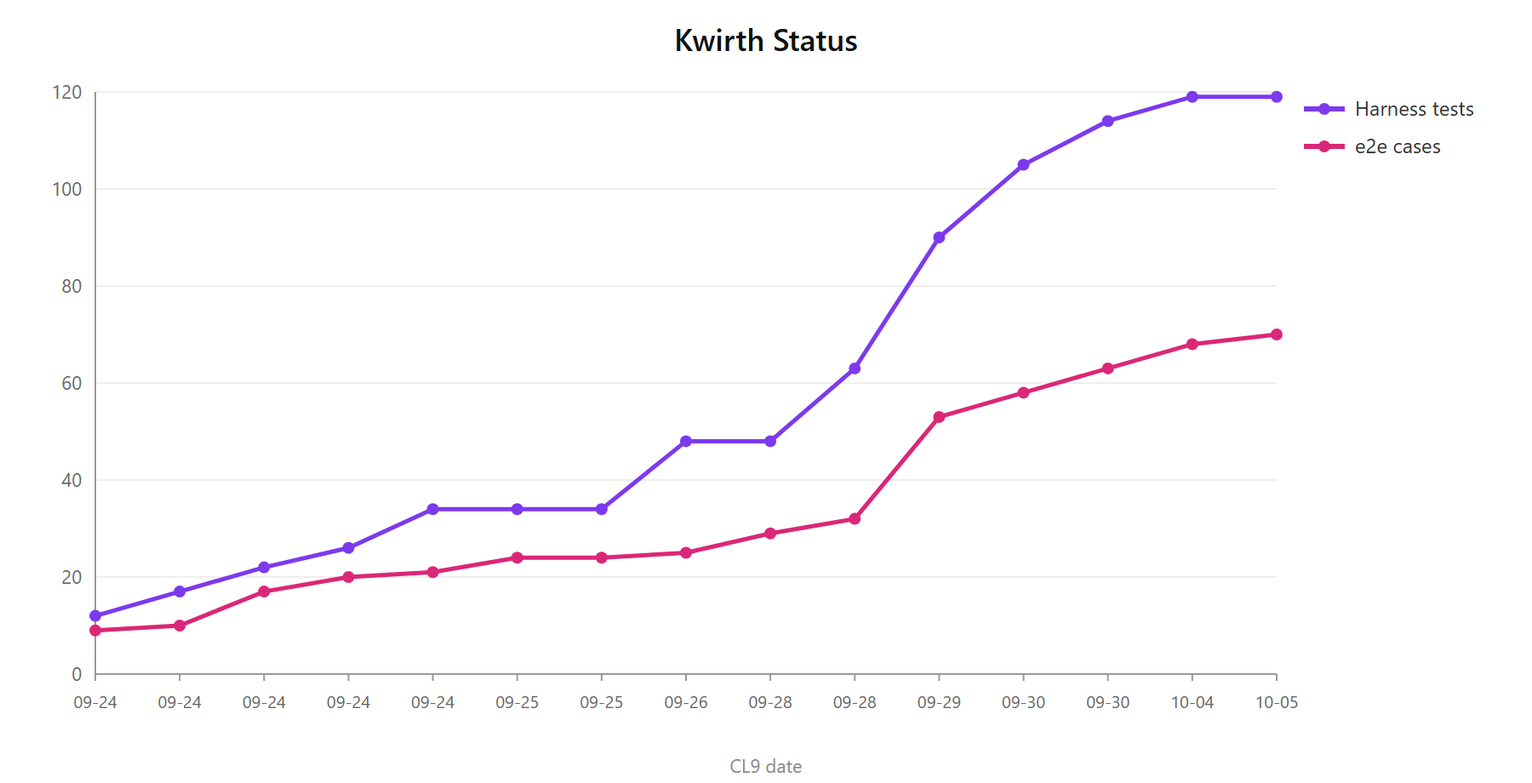
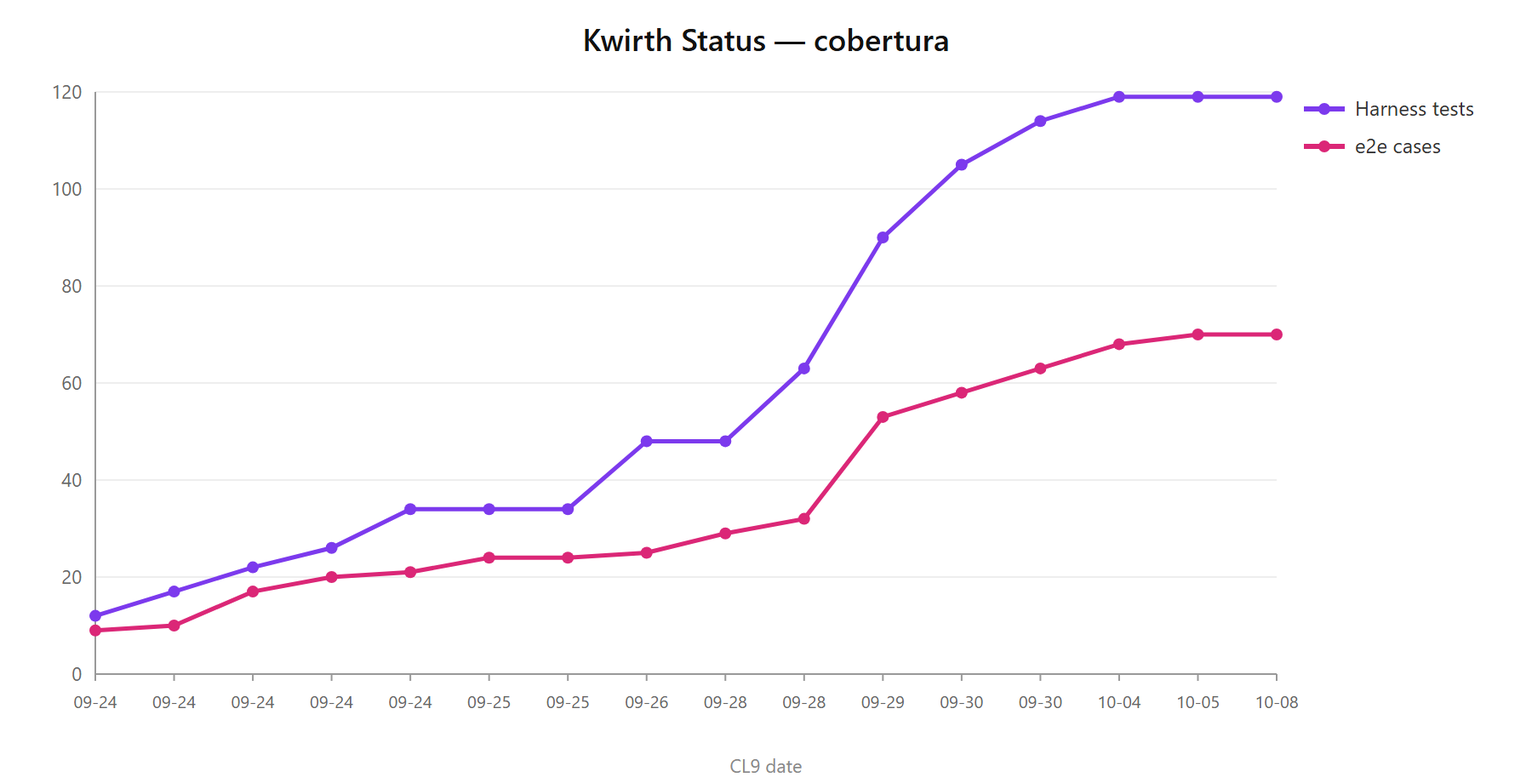
feat(core): the resource selector only lets you pick channels that can live on this cluster
`sources` has been in the channel contract since forever, every one of the 24
channels declares it, and nobody read it: its only use was being printed in
ManageClusters. So a Kwirth outside Kubernetes offered every installed channel,
including the ones that can only paint an empty screen there -- and offered
Excubitor by luck rather than by decision.

The selector now crosses the channel's `sources` with the clusterType of the
SELECTED cluster. Add a Kubernetes cluster to the list, select it, and
everything is offered again: it is that cluster that has something to serve, not
the one hosting Kwirth.

Disabled, never hidden. A channel the user installed and cannot find is a
mystery; one greyed out with its reason beside it is an answer. The reason names
what is missing ("needs kubernetes") rather than saying "incompatible", which
tells nobody anything. It is written inline and not in a tooltip because MUI
kills pointer events on a disabled MenuItem, so a tooltip would never fire --
and a reason you have to hover for is half a reason.

Permissive when a channel declares nothing: the field went years without a
reader, and breaking third-party extensions over an internal tidy-up does not
pay.

Status declares [kubernetes, none] and goes out as 0.7.2. What it shows is
Kwirth itself -- providers, plugins, extensions, HTTP routes, the core log --
none of which comes from the Kubernetes API, so on an ECS deployment it is one
[…]

diff --git a/front/src/components/home/ResourceSelector.tsx b/front/src/components/home/ResourceSelector.tsx
@@ -48,6 +48,26 @@ const isAutonomous = (channel: BackChannelData | undefined): boolean =>
     stop it either: it only looks at whether there are resources selected, not whether the channel
     admits them.
 */
+/*
+    Can this channel live on THIS cluster? A different question from the one above: `cluster`/`resourced`
+    say HOW a channel is invoked (cluster-wide, per resource, not at all), while `sources` says WHAT it
+    needs behind it. They are orthogonal, and Excubitor is the case that proves it -- invoked cluster-wide
+    and needing no Kubernetes at all, because its data comes from the cloud connectors.
+
+    Until now nobody crossed the two, so a Kwirth outside Kubernetes offered channels that could only paint
+    an empty screen, and offered Excubitor by luck rather than by decision.
+
+    Permissive when the channel declares nothing: the field went years without a reader, and breaking
+    third-party extensions over an internal tidy-up does not pay.
+*/
+const channelFitsCluster = (channel: BackChannelData, clusterType?: string): boolean =>
+    !channel.sources || channel.sources.length === 0 || !clusterType || channel.sources.includes(clusterType)
+
+/** What the channel is missing here, for the item that cannot be picked. Names what it NEEDS, not that it
+ *  is "incompatible": the second says nothing the user can act on. */
+const channelNeeds = (channel: BackChannelData): string =>
+    `needs ${channel.sources.filter(s => s !== EClusterType.NONE).join(' or ')}`
+
 const channelFitsView = (channel: BackChannelData, view: EInstanceConfigView | ''): boolean => {
     switch (view) {
         case '':
@@ -116,6 +136,9 @@ const ResourceSelector: React.FC<IResourceSelectorProps> = (props:IResourceSelec
     // A Kwirth outside Kubernetes has no namespaces, controllers, pods or containers. Offering those views
     // only leads to four dropdowns that will never have anything in them.
     const clusterHasResources = cluster?.kwirthData?.clusterType !== EClusterType.NONE
+    // The SELECTED cluster decides, not the installation: add a Kubernetes cluster to the list, select it,
+    // and every channel is offered again -- it is that cluster that has something to serve.
+    const selectedClusterType = cluster?.kwirthData?.clusterType
 
     const loadAllNamespaces = async (cluster:Cluster) => {
         /*
@@ -535,11 +558,20 @@ const ResourceSelector: React.FC<IResourceSelectorProps> = (props:IResourceSelec
                     { props.backChannels.filter(c => !props.enabledChannels?.length || props.enabledChannels.includes(c.id)).map(c => {
                         const cls = props.frontChannels?.get(c.id)
                         const icon = cls ? React.cloneElement(getChannelIconSafe(cls), { sx: { fontSize: 18, mr: 0.5 } }) : null
+                        /*
+                            It is DISABLED, never hidden. A channel the user installed and cannot find is a
+                            mystery; one that is greyed out with its reason beside it is an answer.
+                            The reason is written inline rather than in a tooltip because MUI disables
+                            pointer events on a disabled MenuItem, so a tooltip would never fire -- and a
+                            reason you have to hover for is half a reason anyway.
+                        */
+                        const unfitCluster = !channelFitsCluster(c, selectedClusterType)
                         return (
-                            <MenuItem key={c.id} value={c.id} disabled={!channelFitsView(c, view)}>
+                            <MenuItem key={c.id} value={c.id} disabled={!channelFitsView(c, view) || unfitCluster}>
                                 <Stack direction='row' alignItems='center'>
                                     {icon}
                                     <span>{c.id}</span>
+                                    {unfitCluster && <Typography variant='caption' color='text.disabled' sx={{ ml: 1 }}>{channelNeeds(c)}</Typography>}
                                     {c.mode === EChannelMode.REMOTE && <RemoteBadge operative={!!resolveRemoteChannelHost(c.id, cluster.clusterInfo?.id ?? '', props.clusters)} />}
                                 </Stack>
                             </MenuItem>

diff --git a/plugins/status/src/back/index.ts b/plugins/status/src/back/index.ts
@@ -216,7 +216,11 @@ class StatusChannel implements IChannel {
         modifiable: false,
         reconnectable: true,
         metrics: false,
-        sources: [EClusterType.KUBERNETES],
+        // 🔴 También SIN cluster, y aquí es casi la razón de existir del canal: lo que Status enseña es el
+        // propio Kwirth —providers, plugins, extensiones, rutas HTTP, el log del core—, nada de lo cual
+        // sale de la API de Kubernetes. En un Kwirth sobre ECS es de los pocos sitios donde mirar qué pasa,
+        // así que deshabilitarlo ahí sería exactamente al revés de lo que hace falta.
+        sources: [EClusterType.KUBERNETES, EClusterType.NONE],
         endpoints: [],
         websocket: false,
         cluster: true,          // lo que se mira es el Kwirth entero, no un pod

diff --git a/plans/channel-sources/PRD.md b/plans/channel-sources/PRD.md
@@ -1,0 +1,160 @@
+# Channel sources — qué canales pueden vivir aquí
+
+> **Estado:** borrador, pendiente de validar. Sin código.
+> **Origen:** la sesión de QA del 2026-10-08 sobre el Kwirth desplegado en **AWS ECS**.
+
+## 1. El problema, con el caso que lo destapó
+
+En un Kwirth **sin Kubernetes** el selector de recursos ofrece **todos** los canales instalados, incluidos
+los que no pueden funcionar ahí. No hay nada que lo impida: nadie cruza lo que un canal necesita con lo que
+la instalación tiene.
+
+Hoy se ve en el ECS real: el desplegable ofrece `magnify`, `metrics` o `trivy`, que sin API de Kubernetes no
+tienen de dónde sacar un solo dato. El usuario los elige, arranca el canal y se encuentra una pantalla
+vacía — o un error, según el canal. **La ausencia de capacidad no se distingue de la ausencia de datos**,
+que es el mismo patrón que llevamos todo M14 persiguiendo en Excubitor.
+
+Y al revés también falla, aunque hoy nos beneficie: **Excubitor aparece por casualidad**, no porque alguien
+haya decidido que puede. Si mañana se activara un filtro ingenuo, desaparecería.
+
+## 2. Lo que ya existe y por qué no basta
+
+Hay **dos** mecanismos en el contrato, y ninguno responde la pregunta.
+
+**`cluster` / `resourced`** dicen **cómo se invoca** un canal: cluster-wide, por recurso, o de ninguna
+manera. De ahí sale `isAutonomous()` en el `ResourceSelector`:
+
+```ts
+const isAutonomous = (channel) => !channel.cluster && !channel.resourced
+```
+
+*"No necesita nada del cluster"*. Es el mecanismo actual para "funciona sin Kubernetes", y **Excubitor no
+cumple**: declara `cluster: true` porque se invoca cluster-wide. Sus datos vienen de los conectores cloud y
+de los escaneos de registro, no de la API de Kubernetes.
+
+**`sources: string[]`** dice **de dónde salen los recursos** con los que el canal trabaja. Existe en
+`BackChannelData` desde siempre, los 24 canales lo declaran… y **no lo lee nadie**: su único uso es pintarlo
+en `ManageClusters`. Además, los 24 declaran `[kubernetes]`, y varios mienten — `galaga`, `spectrum`,
+`sugarless` o `echo` no tocan un cluster en su vida.
+
+El hueco es que **son dos ejes ortogonales metidos en uno**:
+
+| Pregunta | Quién la responde |
+|---|---|
+| **Cómo** se invoca: cluster-wide, por recurso, ninguna | `cluster` / `resourced` |
+| **Qué** necesita detrás: Kubernetes, nada, otra cosa | `sources` — existe, pero está muerto |
+
+Excubitor es justo la combinación que hoy no se puede expresar: **se invoca cluster-wide y no necesita
+Kubernetes**.
+
+## 3. Decisiones
+
+### D1 · `sources` es un **array**, no un booleano ✅ *(validado por el usuario, 2026-10-08)*
+
+Se descartó `requiresCluster: boolean`, más directo de leer, porque cierra la puerta al tercer origen. Con
+el array, el día que exista otro tipo de cluster se añade un valor y ya:
+
+```ts
+sources: [EClusterType.KUBERNETES, EClusterType.NONE, EClusterType.OTRO]
+```
+
+**Semántica**: el conjunto de orígenes de recursos con los que el canal **puede vivir**. `NONE` en la lista
+significa *"también sé funcionar sin ninguno"*, consistente con lo que `EClusterType.NONE` ya significa en
+`Channel.ts` — *"de ningún sitio"* como respuesta honesta, no como fallo.
+
+Se asume que leer `sources: [kubernetes, none]` chirría un poco, porque suena a *"orígenes: ninguno"*. Se
+acepta a cambio de la extensibilidad.
+
+### D2 · **ECS NO entra en `EClusterType`** ✅ *(validado por el usuario, 2026-10-08)*
+
+La propuesta inicial era declarar Excubitor como soportando *"2 tipos de cluster: KUBERNETES y ECS"*. La
+recomendación es **no hacerlo**, por dos motivos:
+
+1. **Contradice el diseño ya escrito** en `Channel.ts`, que retiró DOCKER con este argumento literal:
+   *"Docker sigue siendo un sitio donde **correr** —eso lo dice `EExecutionEnvironment`— pero no una fuente
+   de recursos"*. ECS es exactamente el mismo caso.
+2. **Rompe el caso real**: Excubitor inventaría tareas de ECS **también desde un k3d**, porque esa capacidad
+   se la da el conector cloud, no el sitio donde vive. Si ECS fuese un tipo de cluster, un Kwirth en
+   Kubernetes mirando una cuenta AWS tendría que declararse de dos tipos a la vez, y el tipo dejaría de
+   describir la instalación.
+
+🔴 **Si se decide lo contrario**, hay que repasar las guardas del *sin cluster* entregadas hoy
+(`cc6821ad`, `8633383e`), que preguntan `clusterType === NONE` y pasarían a `!== KUBERNETES`.
+
+### D3 · Alcance de las declaraciones ✅ *(validado por el usuario, 2026-10-08: opción A)*
+
+Son **24 canales** los que declaran `sources`, y cada plugin de pago tocado arrastra su bump, publish,
+manifest y tag. Ahí está el coste, no en el código.
+
+- **Opción A (recomendada)**: declarar solo **`excubitor` y `status`**, que son los que corren en el ECS, y
+  el resto cuando se toque cada uno por otro motivo. El filtro funciona igual: lo que no declare `NONE`
+  simplemente no sale en un Kwirth sin cluster, **que es la verdad** mientras nadie diga lo contrario.
+- **Opción B**: revisar los 24 de una vez. Más coherente de golpe, pero son ~20 bbpm encadenados.
+
+### D4 · Un canal incompatible **se muestra DESHABILITADO**, no se oculta ✅ *(validado por el usuario, 2026-10-08, vía UC1)*
+
+Se descartó ocultarlo. Un canal que el usuario ha instalado y no aparece es un misterio; deshabilitado con
+su motivo es una respuesta. Es el mismo criterio que venimos aplicando en todo M14: **no borrar
+información, explicarla**.
+
+El motivo va en un tooltip, y tiene que nombrar **lo que falta**, no lo que sobra: *"needs a Kubernetes
+cluster"*, no *"not compatible"*.
+
+## 3b. Casos de uso
+
+### UC1 · Kwirth en ECS con tres canales instalados
+
+Un Kwirth en ECS (`clusterType: none`) con **Excubitor**, **Status** y **Logs** instalados.
+
+Lo que declara cada uno:
+
+| canal | `sources` | en el selector |
+|---|---|---|
+| `excubitor` | `[kubernetes, none]` | **seleccionable** |
+| `status` | `[kubernetes, none]` | **seleccionable** |
+| `log` | `[kubernetes]` | **deshabilitado** |
+
+En el selector se ven **los tres**. **Excubitor** y **Status** son seleccionables: ninguno necesita la API
+de Kubernetes. **Logs** aparece **deshabilitado**, porque solo sabe leer logs de pods y ahí no hay pods —
+con su tooltip diciendo exactamente eso.
+
+El filtro no adivina nada: sale de cruzar el `sources` declarado por el canal con el `clusterType` del
+cluster seleccionado. `log` se deshabilita porque **declara `[kubernetes]` y nada más**, no porque alguien
+haya puesto su nombre en una lista.
+
+> Lo que este caso fija, y conviene no perder de vista: Logs no está deshabilitado por *"ser de Kubernetes"*
+> en abstracto, sino porque **su fuente de datos no existe aquí**. Esa es la pregunta que `sources`
+> responde, y por eso la respuesta correcta es deshabilitar y explicar, no esconder.
+
+### D5 · Se filtra por el **cluster seleccionado**, no por la instalación ✅
+
+Igual que las guardas de hoy. Un k3d añadido a la lista de clusters sigue ofreciendo todo cuando se
+selecciona: es **ese** cluster el que tiene algo que enseñar, no el que hospeda a Kwirth.
+
+### D6 · Un canal que no declare nada: **permisivo** ✅ *(validado por el usuario, 2026-10-08)*
+
+¿`sources` vacío o ausente = "vale para todo" o = "no vale para nada"? Permisivo evita romper extensiones de
+terceros; estricto obliga a declarar. **Recomendación: permisivo**, porque el contrato lleva años sin que
+nadie lo lea y romper instalaciones ajenas por una limpieza interna no compensa.
+
+## 4. Fuera de alcance
+
+- No se toca `cluster` / `resourced` ni `isAutonomous()`: siguen decidiendo **cómo** se invoca un canal, y
+  el filtro por vista que ya existe (`channelFitsView`) se queda como está.
+- No se añaden tipos de cluster nuevos (ver D2).
+- No se filtra nada en el **back**: un canal incompatible que alguien arranque a mano por API sigue
+  arrancando. Esto es ergonomía del selector, no seguridad.
+
+## 5. Riesgo principal
+
+🔴 **El orden no es negociable: primero las declaraciones, después el filtro.** Los 24 canales declaran hoy
+`[kubernetes]`. Si el filtro entra antes, un Kwirth sin cluster se queda **sin un solo canal**, empezando por
+Excubitor, que es el que se está usando ahí.
+
+## 6. Cómo se sabrá que está bien
+
+1. **UC1 reproducido**: en el Kwirth de ECS, los tres canales se ven; Excubitor y Status seleccionables,
+   Logs deshabilitado con su tooltip.
+2. Añadir un cluster Kubernetes a la lista y seleccionarlo **rehabilita todos** los canales, sin recargar.
+3. Un canal de terceros que no declare `sources` sigue seleccionable (D6).
+4. Ningún canal **desaparece** de la lista por este cambio: los que no encajan se deshabilitan.

diff --git a/plans/channel-sources/PLAN.md b/plans/channel-sources/PLAN.md
@@ -1,0 +1,78 @@
+# Channel sources — PLAN
+
+> **Estado (2026-10-08):** **VIVO, con los tres streams entregados.** ✅ **S1** (core: el selector cruza
+> `sources` con el tipo del cluster seleccionado), ✅ **S2** (`excubitor` y `status` declaran
+> `[kubernetes, none]`) y ✅ **S3** (publicados `excubitor@0.2.17` al Nexus privado y `status@0.7.2` a npm
+> público, con sus manifests).
+>
+> 🔴 **NO cerrado**: falta el **QA manual de UC1** contra el Kwirth de ECS, que exige buildear el core y
+> reinstalar los dos plugins. Y queda el backlog de declaraciones de los otros 22 canales, que es
+> deliberado (D3).
+>
+> PRD en [`PRD.md`](./PRD.md), con las seis decisiones validadas y el caso **UC1**.
+> Documento **vivo y append-only**: el estado de cada stream se actualiza, nunca se borra.
+
+## Por qué, en una línea
+
+En un Kwirth sin Kubernetes el selector ofrecía **todos** los canales, incluidos los que allí solo pueden
+pintar una pantalla vacía — y ofrecía Excubitor **por casualidad**, no por decisión. `sources` existía en el
+contrato desde siempre y **no lo leía nadie**.
+
+## Streams
+
+| # | Qué | Estado |
+|---|---|---|
+| **S1** | **Core**: el `ResourceSelector` cruza `channel.sources` con el `clusterType` del cluster **seleccionado**. El que no encaja se **deshabilita** con el motivo al lado. Permisivo si el canal no declara nada | ✅ **HECHO** (2026-10-08) |
+| **S2** | **Declaraciones**: `excubitor` y `status` pasan a `[kubernetes, none]` | ✅ **HECHO** (2026-10-08) |
+| **S3** | **bbpm** de los dos plugins: bump, build, publish, manifest y tag. Excubitor al **Nexus privado**; Status a **npm público** | ✅ **HECHO** (2026-10-08): `excubitor@0.2.17` + `docs/excubitor@0.2.17`, `status@0.7.2` (con README en el tarball) |
+
+### S1 · Lo que entró en el core
+
+Dos funciones puras en [`ResourceSelector.tsx`](../../front/src/components/home/ResourceSelector.tsx), junto
+a las que ya filtraban por vista:
+
+- `channelFitsCluster(channel, clusterType)` — permisivo si `sources` está vacío o ausente (D6).
+- `channelNeeds(channel)` — el texto de lo que falta: *"needs kubernetes"*. Nombra **lo que necesita**, no
+  que es "incompatible", que no le dice nada al que lo lee.
+
+🔴 **Desviación del PRD, y por qué.** El PRD decía *tooltip*; está puesto como **texto en línea** dentro del
+item. MUI desactiva los eventos de puntero en un `MenuItem` deshabilitado, así que un tooltip **no llegaría
+a dispararse nunca**. Y, al margen del impedimento técnico, un motivo que hay que descubrir pasando el ratón
+por encima es medio motivo: en un desplegable, escrito al lado se lee sin buscarlo.
+
+### S2 · Lo que declaran ahora
+
+| canal | `sources` | por qué |
+|---|---|---|
+| `excubitor` | `[kubernetes, none]` | se invoca cluster-wide pero **no necesita la API de Kubernetes**: sus hallazgos vienen de los conectores cloud y de los escaneos de registro. Validado en el ECS real |
+| `status` | `[kubernetes, none]` | lo que enseña es **el propio Kwirth** —providers, plugins, extensiones, rutas, el log del core—, nada de lo cual sale de Kubernetes. En un Kwirth sobre ECS es de los pocos sitios donde mirar qué pasa |
+
+## Backlog
+
+> Append-only.
+
+- **Los otros 22 canales siguen declarando `[kubernetes]`, y varios mienten.** `galaga`, `spectrum`,
+  `sugarless`, `echo`, `mirc` o `news` no tocan un cluster en su vida y deberían declarar `none`. No se
+  tocan ahora por **decisión explícita** (D3, opción A): cada plugin de pago arrastra su bbpm entero, y
+  encadenar veinte en una tarde no compensa. Se corrige **cuando se toque cada uno por otro motivo**.
+  Mientras tanto el filtro no miente: lo que no declara `none` no sale en un Kwirth sin cluster, que es la
+  verdad hasta que su autor diga lo contrario.
+- **`magnify`, `metrics`, `trivy`, `fileman`, `log`, `ops`, `nettools` se quedan como están**: necesitan
+  Kubernetes de verdad y `[kubernetes]` es correcto. No hay nada que hacer con ellos — se listan para que
+  nadie los "arregle" por error.
+- **El back no filtra nada.** Un canal incompatible que alguien arranque por API sigue arrancando. Esto es
+  ergonomía del selector, no seguridad (fuera de alcance en el PRD). Si algún día hace falta, el sitio es
+  `processStartInstanceConfig`.
+- **Falta decidir qué pasa con un canal ya abierto** cuando se cambia a un cluster donde no encaja: hoy la
+  pestaña sigue viva y el filtro solo actúa al crear una nueva. Puede estar bien (es lo menos invasivo) o
+  puede ser otro caso de "datos de algo que no está". Sin caso real todavía.
+- **`sources` sigue siendo `string[]` en `BackChannelData`**, no `EClusterType[]`. Tiparlo obligaría a
+  recompilar las extensiones; se deja para cuando toque un cambio mayor del contrato.
+
+## Lo que hay que ver para darlo por bueno
+
+1. **UC1**: en el Kwirth de ECS, los tres canales visibles; Excubitor y Status seleccionables, `log`
+   deshabilitado con *"needs kubernetes"* al lado.
+2. Añadir un cluster Kubernetes, seleccionarlo, y **todos** vuelven a estar seleccionables sin recargar.
+3. Un canal que no declare `sources` sigue seleccionable.
+4. **Ninguno desaparece** de la lista.

diff --git a/plugins/status/docs/qa/test-metrics-history.md b/plugins/status/docs/qa/test-metrics-history.md
@@ -14,6 +14,7 @@
 
 | Fecha | Cierre | Harness | Cobertura (líneas / ramas / funcs) | e2e | Notas |
 |---|---|---|---|---|---|
+| 2026-10-08 | Status declara que sabe vivir **sin Kubernetes** (`plugin/status@0.7.2`) | **119** ✅ (=) | **97.91 % / 94.44 % / 93.90 %** | 5 specs · 70 casos (sin cambios) | Una línea de código y ninguna de test, pero el motivo vale la pena: `sources` pasa de `[kubernetes]` a **`[kubernetes, none]`**. Desde el core ([`channel-sources`](../../../../plans/channel-sources/PLAN.md)) el selector de recursos **deshabilita** los canales cuyo `sources` no incluye el tipo del cluster seleccionado, y sin esta declaración Status se habría deshabilitado en un Kwirth sobre ECS — que es de los pocos sitios donde mirar qué pasa, porque **lo que enseña es el propio Kwirth**: providers, plugins, extensiones, rutas HTTP y el log del core, nada de lo cual sale de la API de Kubernetes. ⚠ **Sin test nuevo, y se dice por qué**: lo que hay que comprobar es que el **selector del front** lo habilite, y eso es un e2e del core contra un Kwirth sin cluster, no del plugin. El harness se corrió entero. Cobertura −0,21 pts en líneas respecto a 0.7.0, por el denominador |
 | 2026-10-05 | React Flow y elk, del DCE `xyflow` (`plugin/status@0.7.0`) | **119** ✅ (=) | **98.12 % / 94.44 % / 93.90 %** | 5 specs · 70 casos · **`02-graph` 12 ✅** | **El grafo deja de depender del core**: React Flow y elk ya no los publica el core, los trae el DCE `xyflow`. `@xyflow/react` se mapea a `window.__kwirth_dce__['xyflow'].instance.reactFlow` (el bundle sigue sin llevar ni un byte de React Flow, 108 KB) y elk se pide con `getDce<IXyflow>('xyflow').loadElk()`. `requiresExtension` = `dce:xyflow:0.1.0`: sin el DCE no se instala. Los tipos vienen del paquete **publicado** `@kwirthmagnify/kwirth-dce-xyflow@^0.1.0` (devDependency de npm, sin `file:`). Con los tipos reales de elk, `x`/`y` son opcionales: un nodo sin posición se salta y la cuenta cae a la colocación por filas, que era lo que ya pasaba. Harness y cobertura sin cambios: lo tocado es front, y lo cubre `02-graph` (**12 ✅**, layout real de elk: productores arriba y ninguna línea que suba). |
 | 2026-10-04 | SQL — soporte relacional del core en Status (`plugin/status@0.6.0`, `common-sql@0.3.0`) | **119** ✅ (+5) | **98.12 % / 94.44 % / 93.90 %** | 3 specs · 68 casos | **La pestaña SQL** muestra el soporte PostgreSQL/knex del core: config de conexión (client, host, port, user, ssl, maintenanceDb — **sin password**), versiones de knex y pg, reachability y lista de BDD. **Pools de conexión**: por cada consumidor con pool abierto, `used`/`free`/`max` (un pool saturado sale con chip warning). Las tarjetas de **Plugins y Extensions se unifican** en una sola card en la Home (la card abre Plugins; un chip "extensions →" abre Extensions); los tabs se mantienen. El back lee `common-sql` vía `global.__kwirth_back__.kwirthCommonSql` — **+`listPools()`** exportado en `common-sql@0.3.0` para exponer los stats del pool (el `pools` Map era interno). **+5 harness** (reachable, unreachable, not-configured, defaults, pools) y **+1 spec e2e** (4 casos: tab en la tira, config server, sección pools, lista BDD o error). |
 | 2026-09-30 | v2 · S3+S4 — la pestaña Plugins, con cifras que da cada canal (`plugin/status@0.5.0`) | **114** ✅ (+9) | **98.06 % / 95.80 % / 94.49 %** | 2 specs · 63 casos (62 ✅ · 1 ⏭) | **La pestaña Plugins deja de ser un "pendiente"**: cada plugin instalado con su versión, su origen, su estado —**Running**, **Remote** (un canal `single` que aloja el Kwirth in-cluster), **Not started** o **Failed** (su `back.js` no registró canal)— y sus **instancias y conexiones**, que las cuenta **el propio canal** con `getInstances()`. Quien no lo implementa sale con un **"—"** y cuenta aparte como *not reporting*: un cero diría "nadie lo usa". Status lo implementa y se ve a sí mismo. La tarjeta de la Home ya da cifras. Los tipos viven en **`kwirth-common`** y no en espejos: `IPluginStatus`, `EPluginState`, `IChannelInstances` e `IPluginAccess`, y con el **B6** también `ERouteOwnerKind`, `IPublishedRoute`, `IRouteAccess`, `IDceMeta` e `IDceAccess` — Status pierde `EStatusRouteOwner`, `IStatusRoute` y tres vistas privadas. Un estado de un core más nuevo se pinta como *Unknown*, sin romper. `getInstances()` es **obligatorio desde `kwirth-common-back@0.6.0`** (B7). Las cinco figuras de Performance, más altas: +30 % (102 px) y, tras verlas en el QA, +25 % más (128 px). **+9 harness** (etiquetas y estado desconocido, orden, filtro, el resumen que NO suma a quien no informa, la lista del core tal cual, un core que falla deja el resto intacto, `getInstances` cuenta instancias y conexiones y suelta la conexión vacía) y **+6 e2e** con VALORES (Status se ve con ≥1 instancia y conexiones ≤ instancias, un plugin sin informe da "—", los cuatro estados, cabecera y Home cuentan lo mismo que la tabla, filtro, altura de las figuras). ⚠ El caso del grafo que *frena* falló una vez por falta de tráfico en la ventana; pasa aislado (12/12) y en la corrida completa. |

diff --git a/plans/README.md b/plans/README.md
@@ -30,6 +30,7 @@ meses después — que es exactamente lo que pasaba antes de escribir este índi
 |---|---|---|
 | [ai-usage-control](ai-usage-control/PLAN.md) · [PRD](ai-usage-control/PRD.md) | contar lo que Kwirth gasta en IA y **cortar**: por clave de LLM y por canal, en coste, llamadas o tokens, con ventana diaria y mensual | **S1 entregado** (2026-10-06): el envoltorio de `generateText` cuenta y corta por clave, con su UI y su consumo visible; `common-ai` en 0.5.66. Queda **S2**, el tope por canal, que exige pasar el `consumerId` desde los ocho consumidores — cinco de ellos de pago |
 | [kwirth-status v2](kwirth-status/PLAN-v2.md) · [PRD](kwirth-status/PRD-v2.md) | Kwirth Status en diez pestañas: home, providers, grafo, rendimiento del proceso, plugins, extensiones, rutas HTTP, DCE y el log del core | S5 (el resto de extensiones: themes, homepages, logins, idps, aitoolsets, docs y packs) y backlog; publicado 0.7.0 (SQL en 0.6.0; el grafo, del DCE `xyflow` en 0.7.0) |
+| [channel-sources](channel-sources/PLAN.md) · [PRD](channel-sources/PRD.md) | que el selector solo deje elegir los canales que **pueden vivir en este cluster**, cruzando el `sources` que cada canal declara con el tipo del cluster seleccionado | **los tres streams entregados** (2026-10-08): el core filtra, `excubitor`+`status` declaran `[kubernetes, none]` y están publicados (`0.2.17` y `0.7.2`). **No cerrado**: falta el QA manual de UC1 contra el ECS, y queda —a propósito— el backlog de los otros 22 canales, que siguen declarando `[kubernetes]` y varios mienten |
 | [ai-tools](ai-tools/PLAN.md) | las tools de IA como extensión instalable (`aitoolset`) | S4–S7; las 43 viejas ya retiradas de `common-ai` (2026-09-26) |
 | [icons](icons/PLAN.md) | aligerar el barrel de iconos | los dos que un sender pide por nombre, y el alias `/icons` en 26 `build.mjs` |
 | [provider-debug](provider-debug/PLAN.md) | canal para ver en crudo lo que emite un provider | la fase de front |
